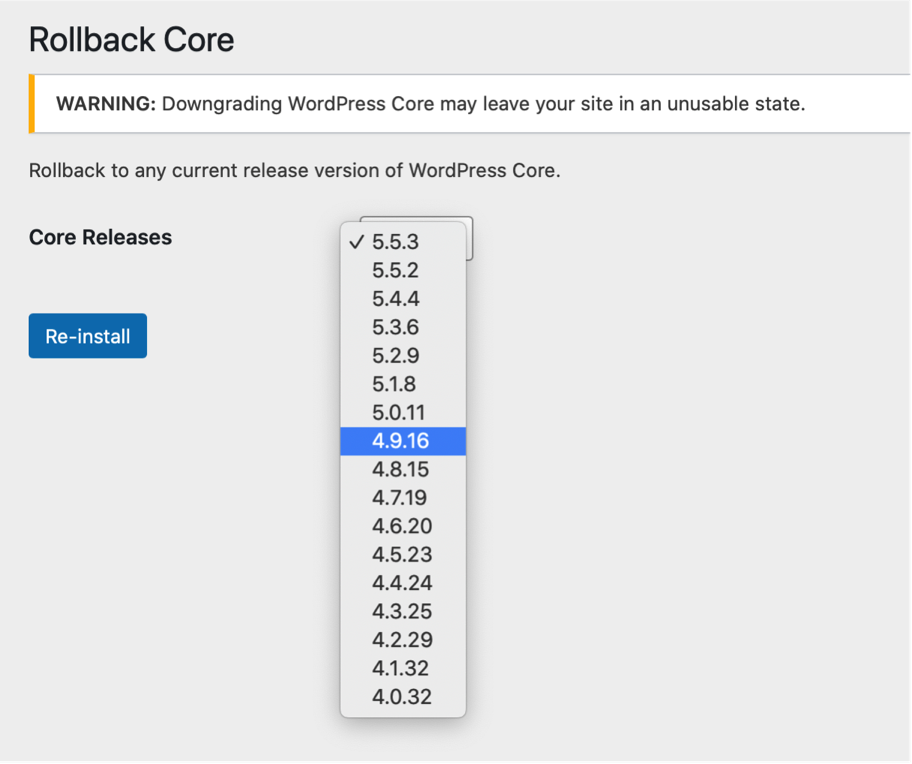
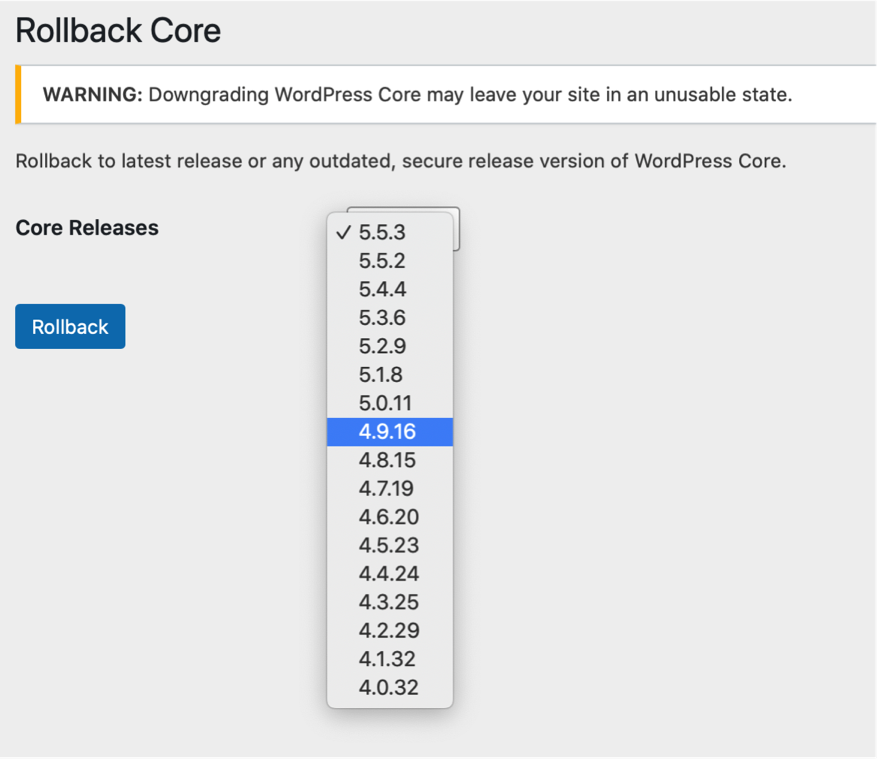
change button to 'Rollback'

diff --git a/src/Settings.php b/src/Settings.php
@@ -91,7 +91,7 @@ class Settings {
 	public function create_admin_page() {
 		$action      = is_multisite() ? 'edit.php?action=rollback' : 'options.php';
 		$form_action = 'update-core.php?action=do-core-reinstall';
-		$submit      = __( 'Re-install', 'core-rollback' );
+		$submit      = __( 'Rollback', 'core-rollback' );
 
 		echo '<div class="wrap">';
 		echo '<h2>' . esc_html__( 'Rollback Core', 'core-rollback' ) . '</h2>';

diff --git a/README.md b/README.md
@@ -15,7 +15,7 @@ Refer to https://api.wordpress.org/core/stable-check/1.0/
 
 ## Usage
 
-From the Tools menu select `Rollback Core`, select the version you wish to rollback to from the dropdown and click `Re-install`. You will be directed to the `update-core.php` page where you should see a button to `Re-install Now` your specified version. If you move away from the `update-core.php` page before clicking the `Re-install Now` button you will have 15 seconds to return and complete the process or you will need to start over.
+From the Tools menu select `Rollback Core`, select the version you wish to rollback to from the dropdown and click `Rollback`. You will be directed to the `update-core.php` page where you should see a button to `Re-install Now` your specified version. If you move away from the `update-core.php` page before clicking the `Re-install Now` button you will have 15 seconds to return and complete the process or you will need to start over.
 
 In multisite use the Settings menu.
 
